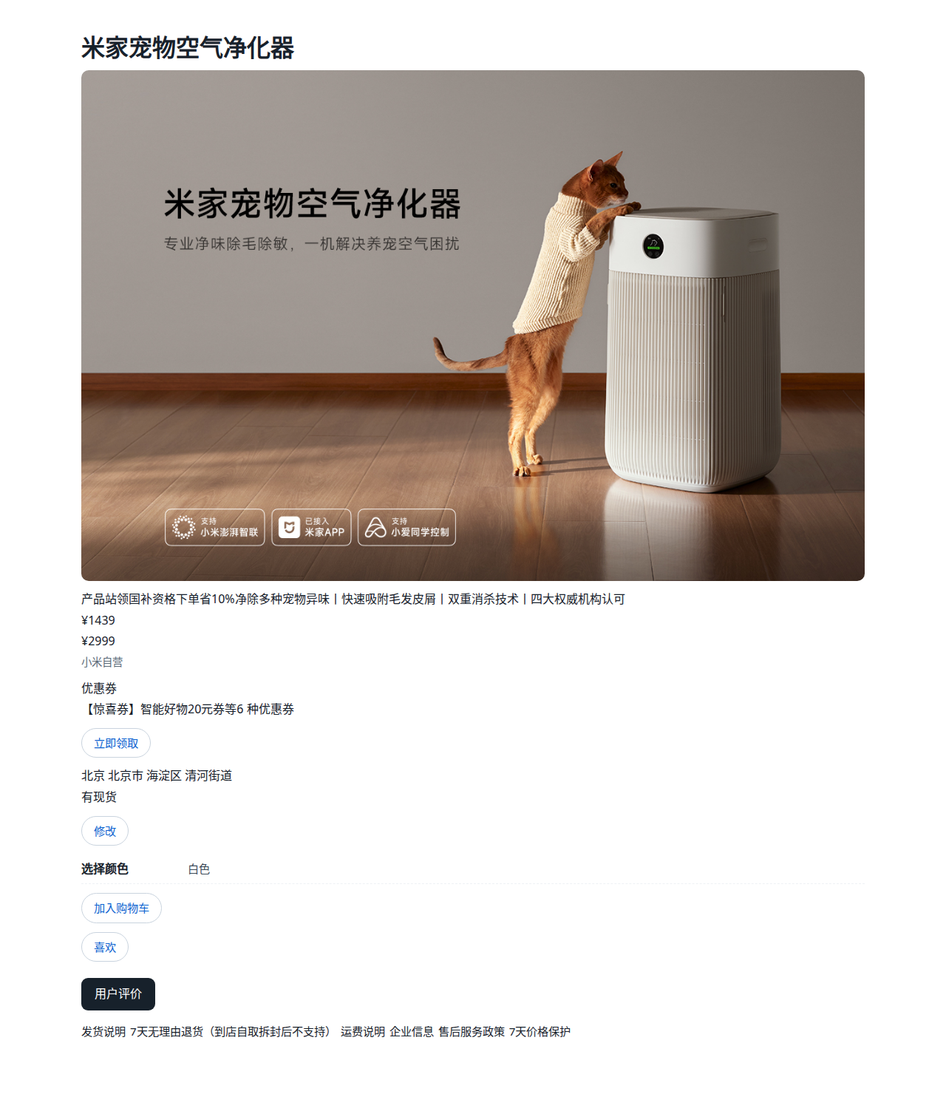
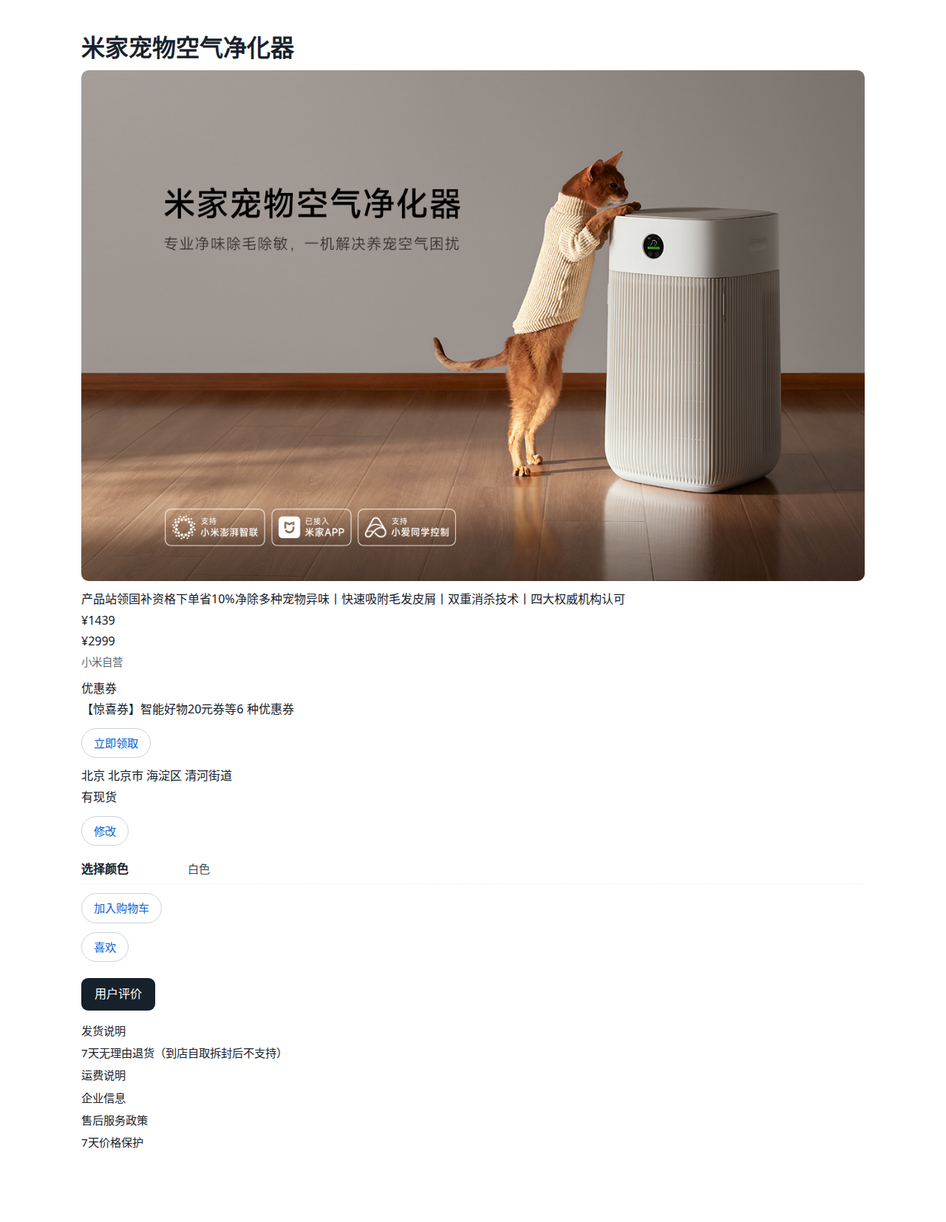
fix-9 accepted: degenerate comparison tables get a reason, three minors closed
Round 10's rule: a compare set that shares no attribute, or whose table would be
less than 40% filled, degrades to its normal form and reports a reason
(degenerate-no-shared-attribute / degenerate-fill-rate:<r>). The worker pushed
back on my brief and was right: my suggested 'fewer than two effective rows'
would have wrongly degraded the accepted Airbnb aspects table (one shared row,
fill 1.00), so the rule is sharedRows == 0 || fill < 0.4, documented with data in
layout-axes §3. Positional _items[i]/_lines[i] keys no longer become rows, and
entity nested collections render in their own column instead of index-pairing.
Minors: 36kr H1 provenance note, aliyun g9i honestly left blank (the source card
has no amount), mi15 assurances one per line.

PROCESS DEFECT (mine, disclosed): commit 162ef7e, labelled as the round-11
capture, swept this round's in-progress render.mjs/selftest/layout-axes edits
into history because I ran 'git add -A' while a writer was still active. Content
is correct, the label is not. From now on: never stage anything while an m1/
writer is running; commit explicit paths or wait for it to finish.

diff --git a/m1/curated/renders/index.html b/m1/curated/renders/index.html
@@ -1,36 +1,36 @@
-<!doctype html><meta charset=utf-8><title>AutoFE M3 curated gallery</title><style>body{font:14px/1.5 system-ui,"PingFang SC",sans-serif;margin:24px;background:#fafbfc;color:#17212b}h1{font-size:1.3em}.grid{display:grid;grid-template-columns:repeat(auto-fill,minmax(260px,1fr));gap:16px;margin-top:16px}.card{margin:0;background:#fff;border:1px solid #e6eaf0;border-radius:10px;overflow:hidden}.card img{width:100%;height:220px;object-fit:cover;object-position:top;display:block;background:#fff}.card figcaption{padding:8px 10px}.k{font-weight:600;font-size:.92em}.tier{float:right;font-size:.75em;color:#68788a;text-transform:uppercase}.m{color:#5b6a78;font-size:.82em;margin-top:3px}.missing{padding:40px;text-align:center;color:#98a4b2}</style><h1>AutoFE · M3 蓝图渲染画廊（36 页 · F-031 轴语义 · 版本 muodghun）</h1><p style="color:#5b6a78">每张缩略图点开看整页；下方为该页事实保真与源覆盖残余。原页截图见 corpus/&lt;site&gt;/&lt;page&gt;/full.png。</p><div class=grid><figure class="card"><a href="36kr-com-home.png?v=muodghun"><img src="36kr-com-home.png?v=muodghun" loading="lazy"></a><figcaption><span class="k">36kr-com/home</span><span class="tier">exemplar</span><div class="m">fidelity <b>1</b> (157/157) · coverage high 62 / med 0</div></figcaption></figure>
-<figure class="card"><a href="36kr-com-information-technology.png?v=muodghun"><img src="36kr-com-information-technology.png?v=muodghun" loading="lazy"></a><figcaption><span class="k">36kr-com/information-technology</span><span class="tier">exemplar</span><div class="m">fidelity <b>1</b> (115/115) · coverage high 33 / med 0</div></figcaption></figure>
-<figure class="card"><a href="36kr-com-search-ai.png?v=muodghun"><img src="36kr-com-search-ai.png?v=muodghun" loading="lazy"></a><figcaption><span class="k">36kr-com/search-ai</span><span class="tier">exemplar</span><div class="m">fidelity <b>1</b> (73/73) · coverage high 32 / med 0</div></figcaption></figure>
-<figure class="card"><a href="36kr-com-search-viz.png?v=muodghun"><img src="36kr-com-search-viz.png?v=muodghun" loading="lazy"></a><figcaption><span class="k">36kr-com/search-viz</span><span class="tier">exemplar</span><div class="m">fidelity <b>1</b> (73/73) · coverage high 33 / med 0</div></figcaption></figure>
-<figure class="card"><a href="airbnb-com-room-28871.png?v=muodghun"><img src="airbnb-com-room-28871.png?v=muodghun" loading="lazy"></a><figcaption><span class="k">airbnb-com/room-28871</span><span class="tier">exemplar</span><div class="m">fidelity <b>1</b> (75/75) · coverage high 30 / med 10</div></figcaption></figure>
-<figure class="card"><a href="aliyun-com-home.png?v=muodghun"><img src="aliyun-com-home.png?v=muodghun" loading="lazy"></a><figcaption><span class="k">aliyun-com/home</span><span class="tier">exemplar</span><div class="m">fidelity <b>1</b> (177/177) · coverage high 67 / med 104</div></figcaption></figure>
-<figure class="card"><a href="aliyun-com-product-ecs.png?v=muodghun"><img src="aliyun-com-product-ecs.png?v=muodghun" loading="lazy"></a><figcaption><span class="k">aliyun-com/product-ecs</span><span class="tier">exemplar</span><div class="m">fidelity <b>1</b> (38/38) · coverage high 76 / med 156</div></figcaption></figure>
-<figure class="card"><a href="apple-com-cn-iphone-17.png?v=muodghun"><img src="apple-com-cn-iphone-17.png?v=muodghun" loading="lazy"></a><figcaption><span class="k">apple-com-cn/iphone-17</span><span class="tier">exemplar</span><div class="m">fidelity <b>1</b> (172/172) · coverage high 99 / med 40</div></figcaption></figure>
-<figure class="card"><a href="apple-com-home.png?v=muodghun"><img src="apple-com-home.png?v=muodghun" loading="lazy"></a><figcaption><span class="k">apple-com/home</span><span class="tier">exemplar</span><div class="m">fidelity <b>1</b> (64/64) · coverage high 74 / med 42</div></figcaption></figure>
-<figure class="card"><a href="apple-com-ipad-air.png?v=muodghun"><img src="apple-com-ipad-air.png?v=muodghun" loading="lazy"></a><figcaption><span class="k">apple-com/ipad-air</span><span class="tier">exemplar</span><div class="m">fidelity <b>1</b> (114/114) · coverage high 57 / med 38</div></figcaption></figure>
-<figure class="card"><a href="apple-com-iphone-16.png?v=muodghun"><img src="apple-com-iphone-16.png?v=muodghun" loading="lazy"></a><figcaption><span class="k">apple-com/iphone-16</span><span class="tier">exemplar</span><div class="m">fidelity <b>1</b> (122/122) · coverage high 78 / med 41</div></figcaption></figure>
-<figure class="card"><a href="apple-com-macbook-air.png?v=muodghun"><img src="apple-com-macbook-air.png?v=muodghun" loading="lazy"></a><figcaption><span class="k">apple-com/macbook-air</span><span class="tier">exemplar</span><div class="m">fidelity <b>1</b> (166/166) · coverage high 63 / med 41</div></figcaption></figure>
-<figure class="card"><a href="bilibili-com-home.png?v=muodghun"><img src="bilibili-com-home.png?v=muodghun" loading="lazy"></a><figcaption><span class="k">bilibili-com/home</span><span class="tier">exemplar</span><div class="m">fidelity <b>1</b> (58/58) · coverage high 25 / med 0</div></figcaption></figure>
-<figure class="card"><a href="bilibili-com-read-home.png?v=muodghun"><img src="bilibili-com-read-home.png?v=muodghun" loading="lazy"></a><figcaption><span class="k">bilibili-com/read-home</span><span class="tier">exemplar</span><div class="m">fidelity <b>1</b> (105/105) · coverage high 4 / med 0</div></figcaption></figure>
-<figure class="card"><a href="bilibili-com-video-bv1gj411x7h7.png?v=muodghun"><img src="bilibili-com-video-bv1gj411x7h7.png?v=muodghun" loading="lazy"></a><figcaption><span class="k">bilibili-com/video-bv1gj411x7h7</span><span class="tier">exemplar</span><div class="m">fidelity <b>1</b> (154/154) · coverage high 17 / med 0</div></figcaption></figure>
-<figure class="card"><a href="gov-uk-register-birth-abroad.png?v=muodghun"><img src="gov-uk-register-birth-abroad.png?v=muodghun" loading="lazy"></a><figcaption><span class="k">gov-uk/register-birth-abroad</span><span class="tier">exemplar</span><div class="m">fidelity <b>1</b> (34/34) · coverage high 0 / med 5</div></figcaption></figure>
-<figure class="card"><a href="grafana-play-play-home.png?v=muodghun"><img src="grafana-play-play-home.png?v=muodghun" loading="lazy"></a><figcaption><span class="k">grafana-play/play-home</span><span class="tier">exemplar</span><div class="m">fidelity <b>1</b> (18/18) · coverage high 0 / med 0</div></figcaption></figure>
-<figure class="card"><a href="huawei-cn-consumer-phones.png?v=muodghun"><img src="huawei-cn-consumer-phones.png?v=muodghun" loading="lazy"></a><figcaption><span class="k">huawei-cn/consumer-phones</span><span class="tier">exemplar</span><div class="m">fidelity <b>1</b> (151/151) · coverage high 85 / med 0</div></figcaption></figure>
-<figure class="card"><a href="huawei-cn-home.png?v=muodghun"><img src="huawei-cn-home.png?v=muodghun" loading="lazy"></a><figcaption><span class="k">huawei-cn/home</span><span class="tier">exemplar</span><div class="m">fidelity <b>1</b> (29/29) · coverage high 8 / med 4</div></figcaption></figure>
-<figure class="card"><a href="huawei-cn-search-laptop.png?v=muodghun"><img src="huawei-cn-search-laptop.png?v=muodghun" loading="lazy"></a><figcaption><span class="k">huawei-cn/search-laptop</span><span class="tier">exemplar</span><div class="m">fidelity <b>1</b> (47/47) · coverage high 9 / med 3</div></figcaption></figure>
-<figure class="card"><a href="huawei-cn-search-phone.png?v=muodghun"><img src="huawei-cn-search-phone.png?v=muodghun" loading="lazy"></a><figcaption><span class="k">huawei-cn/search-phone</span><span class="tier">exemplar</span><div class="m">fidelity <b>1</b> (45/45) · coverage high 9 / med 3</div></figcaption></figure>
-<figure class="card"><a href="linear-app-home.png?v=muodghun"><img src="linear-app-home.png?v=muodghun" loading="lazy"></a><figcaption><span class="k">linear-app/home</span><span class="tier">exemplar</span><div class="m">fidelity <b>1</b> (22/22) · coverage high 145 / med 5</div></figcaption></figure>
-<figure class="card"><a href="mi-com-home.png?v=muodghun"><img src="mi-com-home.png?v=muodghun" loading="lazy"></a><figcaption><span class="k">mi-com/home</span><span class="tier">exemplar</span><div class="m">fidelity <b>1</b> (2/2) · coverage high 11 / med 0</div></figcaption></figure>
-<figure class="card"><a href="mi-com-product-detail-mi15.png?v=muodghun"><img src="mi-com-product-detail-mi15.png?v=muodghun" loading="lazy"></a><figcaption><span class="k">mi-com/product-detail-mi15</span><span class="tier">exemplar</span><div class="m">fidelity <b>1</b> (21/21) · coverage high 18 / med 2</div></figcaption></figure>
-<figure class="card"><a href="mi-com-search-earbuds.png?v=muodghun"><img src="mi-com-search-earbuds.png?v=muodghun" loading="lazy"></a><figcaption><span class="k">mi-com/search-earbuds</span><span class="tier">exemplar</span><div class="m">fidelity <b>1</b> (122/122) · coverage high 64 / med 0</div></figcaption></figure>
-<figure class="card"><a href="mi-com-search-phone.png?v=muodghun"><img src="mi-com-search-phone.png?v=muodghun" loading="lazy"></a><figcaption><span class="k">mi-com/search-phone</span><span class="tier">exemplar</span><div class="m">fidelity <b>1</b> (85/85) · coverage high 63 / med 0</div></figcaption></figure>
-<figure class="card"><a href="mi-com-shop-category-list.png?v=muodghun"><img src="mi-com-shop-category-list.png?v=muodghun" loading="lazy"></a><figcaption><span class="k">mi-com/shop-category-list</span><span class="tier">exemplar</span><div class="m">fidelity <b>1</b> (161/161) · coverage high 13 / med 9</div></figcaption></figure>
-<figure class="card"><a href="sspai-com-home.png?v=muodghun"><img src="sspai-com-home.png?v=muodghun" loading="lazy"></a><figcaption><span class="k">sspai-com/home</span><span class="tier">exemplar</span><div class="m">fidelity <b>1</b> (86/86) · coverage high 14 / med 0</div></figcaption></figure>
-<figure class="card"><a href="sspai-com-matrix.png?v=muodghun"><img src="sspai-com-matrix.png?v=muodghun" loading="lazy"></a><figcaption><span class="k">sspai-com/matrix</span><span class="tier">exemplar</span><div class="m">fidelity <b>1</b> (83/83) · coverage high 15 / med 0</div></figcaption></figure>
-<figure class="card"><a href="sspai-com-post-102392.png?v=muodghun"><img src="sspai-com-post-102392.png?v=muodghun" loading="lazy"></a><figcaption><span class="k">sspai-com/post-102392</span><span class="tier">exemplar</span><div class="m">fidelity <b>1</b> (18/18) · coverage high 9 / med 0</div></figcaption></figure>
-<figure class="card"><a href="sspai-com-post-114699.png?v=muodghun"><img src="sspai-com-post-114699.png?v=muodghun" loading="lazy"></a><figcaption><span class="k">sspai-com/post-114699</span><span class="tier">exemplar</span><div class="m">fidelity <b>1</b> (55/55) · coverage high 19 / med 0</div></figcaption></figure>
-<figure class="card"><a href="sspai-com-post-114716.png?v=muodghun"><img src="sspai-com-post-114716.png?v=muodghun" loading="lazy"></a><figcaption><span class="k">sspai-com/post-114716</span><span class="tier">exemplar</span><div class="m">fidelity <b>1</b> (126/126) · coverage high 28 / med 0</div></figcaption></figure>
-<figure class="card"><a href="sspai-com-u-jtc092al.png?v=muodghun"><img src="sspai-com-u-jtc092al.png?v=muodghun" loading="lazy"></a><figcaption><span class="k">sspai-com/u-jtc092al</span><span class="tier">exemplar</span><div class="m">fidelity <b>1</b> (38/38) · coverage high 3 / med 0</div></figcaption></figure>
-<figure class="card"><a href="stripe-com-pricing.png?v=muodghun"><img src="stripe-com-pricing.png?v=muodghun" loading="lazy"></a><figcaption><span class="k">stripe-com/pricing</span><span class="tier">exemplar</span><div class="m">fidelity <b>1</b> (425/425) · coverage high 91 / med 4</div></figcaption></figure>
-<figure class="card"><a href="stripe-docs-payments.png?v=muodghun"><img src="stripe-docs-payments.png?v=muodghun" loading="lazy"></a><figcaption><span class="k">stripe-docs/payments</span><span class="tier">exemplar</span><div class="m">fidelity <b>1</b> (62/62) · coverage high 0 / med 0</div></figcaption></figure>
-<figure class="card"><a href="taobao-com-home.png?v=muodghun"><img src="taobao-com-home.png?v=muodghun" loading="lazy"></a><figcaption><span class="k">taobao-com/home</span><span class="tier">exemplar</span><div class="m">fidelity <b>1</b> (136/136) · coverage high 13 / med 0</div></figcaption></figure></div>
+<!doctype html><meta charset=utf-8><title>AutoFE M3 curated gallery</title><style>body{font:14px/1.5 system-ui,"PingFang SC",sans-serif;margin:24px;background:#fafbfc;color:#17212b}h1{font-size:1.3em}.grid{display:grid;grid-template-columns:repeat(auto-fill,minmax(260px,1fr));gap:16px;margin-top:16px}.card{margin:0;background:#fff;border:1px solid #e6eaf0;border-radius:10px;overflow:hidden}.card img{width:100%;height:220px;object-fit:cover;object-position:top;display:block;background:#fff}.card figcaption{padding:8px 10px}.k{font-weight:600;font-size:.92em}.tier{float:right;font-size:.75em;color:#68788a;text-transform:uppercase}.m{color:#5b6a78;font-size:.82em;margin-top:3px}.missing{padding:40px;text-align:center;color:#98a4b2}</style><h1>AutoFE · M3 蓝图渲染画廊（36 页 · F-031 轴语义 · 版本 muodz0hp）</h1><p style="color:#5b6a78">每张缩略图点开看整页；下方为该页事实保真与源覆盖残余。原页截图见 corpus/&lt;site&gt;/&lt;page&gt;/full.png。</p><div class=grid><figure class="card"><a href="36kr-com-home.png?v=muodz0hp"><img src="36kr-com-home.png?v=muodz0hp" loading="lazy"></a><figcaption><span class="k">36kr-com/home</span><span class="tier">exemplar</span><div class="m">fidelity <b>1</b> (157/157) · coverage high 62 / med 0</div></figcaption></figure>
+<figure class="card"><a href="36kr-com-information-technology.png?v=muodz0hp"><img src="36kr-com-information-technology.png?v=muodz0hp" loading="lazy"></a><figcaption><span class="k">36kr-com/information-technology</span><span class="tier">exemplar</span><div class="m">fidelity <b>1</b> (115/115) · coverage high 33 / med 0</div></figcaption></figure>
+<figure class="card"><a href="36kr-com-search-ai.png?v=muodz0hp"><img src="36kr-com-search-ai.png?v=muodz0hp" loading="lazy"></a><figcaption><span class="k">36kr-com/search-ai</span><span class="tier">exemplar</span><div class="m">fidelity <b>1</b> (73/73) · coverage high 32 / med 0</div></figcaption></figure>
+<figure class="card"><a href="36kr-com-search-viz.png?v=muodz0hp"><img src="36kr-com-search-viz.png?v=muodz0hp" loading="lazy"></a><figcaption><span class="k">36kr-com/search-viz</span><span class="tier">exemplar</span><div class="m">fidelity <b>1</b> (73/73) · coverage high 33 / med 0</div></figcaption></figure>
+<figure class="card"><a href="airbnb-com-room-28871.png?v=muodz0hp"><img src="airbnb-com-room-28871.png?v=muodz0hp" loading="lazy"></a><figcaption><span class="k">airbnb-com/room-28871</span><span class="tier">exemplar</span><div class="m">fidelity <b>1</b> (75/75) · coverage high 30 / med 10</div></figcaption></figure>
+<figure class="card"><a href="aliyun-com-home.png?v=muodz0hp"><img src="aliyun-com-home.png?v=muodz0hp" loading="lazy"></a><figcaption><span class="k">aliyun-com/home</span><span class="tier">exemplar</span><div class="m">fidelity <b>1</b> (177/177) · coverage high 67 / med 104</div></figcaption></figure>
+<figure class="card"><a href="aliyun-com-product-ecs.png?v=muodz0hp"><img src="aliyun-com-product-ecs.png?v=muodz0hp" loading="lazy"></a><figcaption><span class="k">aliyun-com/product-ecs</span><span class="tier">exemplar</span><div class="m">fidelity <b>1</b> (38/38) · coverage high 76 / med 156</div></figcaption></figure>
+<figure class="card"><a href="apple-com-cn-iphone-17.png?v=muodz0hp"><img src="apple-com-cn-iphone-17.png?v=muodz0hp" loading="lazy"></a><figcaption><span class="k">apple-com-cn/iphone-17</span><span class="tier">exemplar</span><div class="m">fidelity <b>1</b> (172/172) · coverage high 99 / med 40</div></figcaption></figure>
+<figure class="card"><a href="apple-com-home.png?v=muodz0hp"><img src="apple-com-home.png?v=muodz0hp" loading="lazy"></a><figcaption><span class="k">apple-com/home</span><span class="tier">exemplar</span><div class="m">fidelity <b>1</b> (64/64) · coverage high 74 / med 42</div></figcaption></figure>
+<figure class="card"><a href="apple-com-ipad-air.png?v=muodz0hp"><img src="apple-com-ipad-air.png?v=muodz0hp" loading="lazy"></a><figcaption><span class="k">apple-com/ipad-air</span><span class="tier">exemplar</span><div class="m">fidelity <b>1</b> (114/114) · coverage high 57 / med 38</div></figcaption></figure>
+<figure class="card"><a href="apple-com-iphone-16.png?v=muodz0hp"><img src="apple-com-iphone-16.png?v=muodz0hp" loading="lazy"></a><figcaption><span class="k">apple-com/iphone-16</span><span class="tier">exemplar</span><div class="m">fidelity <b>1</b> (122/122) · coverage high 78 / med 41</div></figcaption></figure>
+<figure class="card"><a href="apple-com-macbook-air.png?v=muodz0hp"><img src="apple-com-macbook-air.png?v=muodz0hp" loading="lazy"></a><figcaption><span class="k">apple-com/macbook-air</span><span class="tier">exemplar</span><div class="m">fidelity <b>1</b> (166/166) · coverage high 63 / med 41</div></figcaption></figure>
+<figure class="card"><a href="bilibili-com-home.png?v=muodz0hp"><img src="bilibili-com-home.png?v=muodz0hp" loading="lazy"></a><figcaption><span class="k">bilibili-com/home</span><span class="tier">exemplar</span><div class="m">fidelity <b>1</b> (58/58) · coverage high 25 / med 0</div></figcaption></figure>
+<figure class="card"><a href="bilibili-com-read-home.png?v=muodz0hp"><img src="bilibili-com-read-home.png?v=muodz0hp" loading="lazy"></a><figcaption><span class="k">bilibili-com/read-home</span><span class="tier">exemplar</span><div class="m">fidelity <b>1</b> (105/105) · coverage high 4 / med 0</div></figcaption></figure>
+<figure class="card"><a href="bilibili-com-video-bv1gj411x7h7.png?v=muodz0hp"><img src="bilibili-com-video-bv1gj411x7h7.png?v=muodz0hp" loading="lazy"></a><figcaption><span class="k">bilibili-com/video-bv1gj411x7h7</span><span class="tier">exemplar</span><div class="m">fidelity <b>1</b> (154/154) · coverage high 17 / med 0</div></figcaption></figure>
+<figure class="card"><a href="gov-uk-register-birth-abroad.png?v=muodz0hp"><img src="gov-uk-register-birth-abroad.png?v=muodz0hp" loading="lazy"></a><figcaption><span class="k">gov-uk/register-birth-abroad</span><span class="tier">exemplar</span><div class="m">fidelity <b>1</b> (34/34) · coverage high 0 / med 5</div></figcaption></figure>
+<figure class="card"><a href="grafana-play-play-home.png?v=muodz0hp"><img src="grafana-play-play-home.png?v=muodz0hp" loading="lazy"></a><figcaption><span class="k">grafana-play/play-home</span><span class="tier">exemplar</span><div class="m">fidelity <b>1</b> (18/18) · coverage high 0 / med 0</div></figcaption></figure>
+<figure class="card"><a href="huawei-cn-consumer-phones.png?v=muodz0hp"><img src="huawei-cn-consumer-phones.png?v=muodz0hp" loading="lazy"></a><figcaption><span class="k">huawei-cn/consumer-phones</span><span class="tier">exemplar</span><div class="m">fidelity <b>1</b> (151/151) · coverage high 85 / med 0</div></figcaption></figure>
+<figure class="card"><a href="huawei-cn-home.png?v=muodz0hp"><img src="huawei-cn-home.png?v=muodz0hp" loading="lazy"></a><figcaption><span class="k">huawei-cn/home</span><span class="tier">exemplar</span><div class="m">fidelity <b>1</b> (29/29) · coverage high 8 / med 4</div></figcaption></figure>
+<figure class="card"><a href="huawei-cn-search-laptop.png?v=muodz0hp"><img src="huawei-cn-search-laptop.png?v=muodz0hp" loading="lazy"></a><figcaption><span class="k">huawei-cn/search-laptop</span><span class="tier">exemplar</span><div class="m">fidelity <b>1</b> (47/47) · coverage high 9 / med 3</div></figcaption></figure>
+<figure class="card"><a href="huawei-cn-search-phone.png?v=muodz0hp"><img src="huawei-cn-search-phone.png?v=muodz0hp" loading="lazy"></a><figcaption><span class="k">huawei-cn/search-phone</span><span class="tier">exemplar</span><div class="m">fidelity <b>1</b> (45/45) · coverage high 9 / med 3</div></figcaption></figure>
+<figure class="card"><a href="linear-app-home.png?v=muodz0hp"><img src="linear-app-home.png?v=muodz0hp" loading="lazy"></a><figcaption><span class="k">linear-app/home</span><span class="tier">exemplar</span><div class="m">fidelity <b>1</b> (22/22) · coverage high 145 / med 5</div></figcaption></figure>
+<figure class="card"><a href="mi-com-home.png?v=muodz0hp"><img src="mi-com-home.png?v=muodz0hp" loading="lazy"></a><figcaption><span class="k">mi-com/home</span><span class="tier">exemplar</span><div class="m">fidelity <b>1</b> (2/2) · coverage high 11 / med 0</div></figcaption></figure>
+<figure class="card"><a href="mi-com-product-detail-mi15.png?v=muodz0hp"><img src="mi-com-product-detail-mi15.png?v=muodz0hp" loading="lazy"></a><figcaption><span class="k">mi-com/product-detail-mi15</span><span class="tier">exemplar</span><div class="m">fidelity <b>1</b> (21/21) · coverage high 18 / med 2</div></figcaption></figure>
+<figure class="card"><a href="mi-com-search-earbuds.png?v=muodz0hp"><img src="mi-com-search-earbuds.png?v=muodz0hp" loading="lazy"></a><figcaption><span class="k">mi-com/search-earbuds</span><span class="tier">exemplar</span><div class="m">fidelity <b>1</b> (122/122) · coverage high 64 / med 0</div></figcaption></figure>
+<figure class="card"><a href="mi-com-search-phone.png?v=muodz0hp"><img src="mi-com-search-phone.png?v=muodz0hp" loading="lazy"></a><figcaption><span class="k">mi-com/search-phone</span><span class="tier">exemplar</span><div class="m">fidelity <b>1</b> (85/85) · coverage high 63 / med 0</div></figcaption></figure>
+<figure class="card"><a href="mi-com-shop-category-list.png?v=muodz0hp"><img src="mi-com-shop-category-list.png?v=muodz0hp" loading="lazy"></a><figcaption><span class="k">mi-com/shop-category-list</span><span class="tier">exemplar</span><div class="m">fidelity <b>1</b> (161/161) · coverage high 13 / med 9</div></figcaption></figure>
+<figure class="card"><a href="sspai-com-home.png?v=muodz0hp"><img src="sspai-com-home.png?v=muodz0hp" loading="lazy"></a><figcaption><span class="k">sspai-com/home</span><span class="tier">exemplar</span><div class="m">fidelity <b>1</b> (86/86) · coverage high 14 / med 0</div></figcaption></figure>
+<figure class="card"><a href="sspai-com-matrix.png?v=muodz0hp"><img src="sspai-com-matrix.png?v=muodz0hp" loading="lazy"></a><figcaption><span class="k">sspai-com/matrix</span><span class="tier">exemplar</span><div class="m">fidelity <b>1</b> (83/83) · coverage high 15 / med 0</div></figcaption></figure>
+<figure class="card"><a href="sspai-com-post-102392.png?v=muodz0hp"><img src="sspai-com-post-102392.png?v=muodz0hp" loading="lazy"></a><figcaption><span class="k">sspai-com/post-102392</span><span class="tier">exemplar</span><div class="m">fidelity <b>1</b> (18/18) · coverage high 9 / med 0</div></figcaption></figure>
+<figure class="card"><a href="sspai-com-post-114699.png?v=muodz0hp"><img src="sspai-com-post-114699.png?v=muodz0hp" loading="lazy"></a><figcaption><span class="k">sspai-com/post-114699</span><span class="tier">exemplar</span><div class="m">fidelity <b>1</b> (55/55) · coverage high 19 / med 0</div></figcaption></figure>
+<figure class="card"><a href="sspai-com-post-114716.png?v=muodz0hp"><img src="sspai-com-post-114716.png?v=muodz0hp" loading="lazy"></a><figcaption><span class="k">sspai-com/post-114716</span><span class="tier">exemplar</span><div class="m">fidelity <b>1</b> (126/126) · coverage high 28 / med 0</div></figcaption></figure>
+<figure class="card"><a href="sspai-com-u-jtc092al.png?v=muodz0hp"><img src="sspai-com-u-jtc092al.png?v=muodz0hp" loading="lazy"></a><figcaption><span class="k">sspai-com/u-jtc092al</span><span class="tier">exemplar</span><div class="m">fidelity <b>1</b> (38/38) · coverage high 3 / med 0</div></figcaption></figure>
+<figure class="card"><a href="stripe-com-pricing.png?v=muodz0hp"><img src="stripe-com-pricing.png?v=muodz0hp" loading="lazy"></a><figcaption><span class="k">stripe-com/pricing</span><span class="tier">exemplar</span><div class="m">fidelity <b>1</b> (425/425) · coverage high 91 / med 4</div></figcaption></figure>
+<figure class="card"><a href="stripe-docs-payments.png?v=muodz0hp"><img src="stripe-docs-payments.png?v=muodz0hp" loading="lazy"></a><figcaption><span class="k">stripe-docs/payments</span><span class="tier">exemplar</span><div class="m">fidelity <b>1</b> (62/62) · coverage high 0 / med 0</div></figcaption></figure>
+<figure class="card"><a href="taobao-com-home.png?v=muodz0hp"><img src="taobao-com-home.png?v=muodz0hp" loading="lazy"></a><figcaption><span class="k">taobao-com/home</span><span class="tier">exemplar</span><div class="m">fidelity <b>1</b> (136/136) · coverage high 13 / med 0</div></figcaption></figure></div>

diff --git a/m1/curated/renders/mi-com-product-detail-mi15.html b/m1/curated/renders/mi-com-product-detail-mi15.html
@@ -96,4 +96,4 @@ table.data td.sel,table.data th.sel{width:34px;text-align:center}
 .row-ops{display:flex;flex-direction:column;gap:4px}
 .row-ops .action{margin:2px 0;padding:4px 10px;font-size:.85em}
 </style></head>
-<body><main><article id="mi-pet-air-purifier" class="node depth-0"><h1 class="title">米家宠物空气净化器</h1><figure class="strip"><img src="../assets/mi15-product-hero.png" alt="米家宠物空气净化器 产品主图（自原页截图恢复）"></figure><section class="group g-product"><article class="node depth-1"><div class="fact"><span class="val">产品站领国补资格下单省10%净除多种宠物异味丨快速吸附毛发皮屑丨双重消杀技术丨四大权威机构认可</span></div><div class="fact"><span class="val">¥1439</span></div><div class="fact"><span class="val">¥2999</span></div><div class="meta">小米自营</div></article></section><section class="group g-coupons"><article class="node depth-1"><div class="fact"><span class="val">优惠券</span></div><div class="fact"><span class="val">【惊喜券】智能好物20元券等6 种优惠券</span></div><section class="group g-claim"><div class="controls"><span class="ctl">立即领取</span></div></section></article></section><section class="group g-delivery"><article class="node depth-1"><div class="fact"><span class="val">北京 北京市 海淀区 清河街道</span></div><div class="fact"><span class="val">有现货</span></div><section class="group g-modify"><div class="controls"><span class="ctl">修改</span></div></section></article></section><section class="group g-options"><article class="node depth-1"><div class="defrow"><div class="deflabel">选择颜色</div><div class="defval">白色 </div></div></article></section><section class="group g-buy"><article class="node depth-1"><section class="group g-cart"><div class="controls"><span class="ctl">加入购物车</span></div></section><section class="group g-like"><div class="controls"><span class="ctl">喜欢</span></div></section></article></section><section class="group g-reviews"><article class="node depth-1"><a class="action verb-open" href="https://www.mi.com/shop/comment/21096.html">用户评价</a></article></section><section class="group g-assurances"><article class="node depth-1"><div class="chips"><span class="chip-item">发货说明</span><span class="chip-item">7天无理由退货（到店自取拆封后不支持）</span><span class="chip-item">运费说明</span><span class="chip-item">企业信息</span><span class="chip-item"><a href="https://m.mi.com/aftersale/policy/7">售后服务政策</a></span><span class="chip-item"><a href="https://s1.mi.com/m/faq/giving/index.html?project_id=44">7天价格保护</a></span></div></article></section></article></main></body></html>
+<body><main><article id="mi-pet-air-purifier" class="node depth-0"><h1 class="title">米家宠物空气净化器</h1><figure class="strip"><img src="../assets/mi15-product-hero.png" alt="米家宠物空气净化器 产品主图（自原页截图恢复）"></figure><section class="group g-product"><article class="node depth-1"><div class="fact"><span class="val">产品站领国补资格下单省10%净除多种宠物异味丨快速吸附毛发皮屑丨双重消杀技术丨四大权威机构认可</span></div><div class="fact"><span class="val">¥1439</span></div><div class="fact"><span class="val">¥2999</span></div><div class="meta">小米自营</div></article></section><section class="group g-coupons"><article class="node depth-1"><div class="fact"><span class="val">优惠券</span></div><div class="fact"><span class="val">【惊喜券】智能好物20元券等6 种优惠券</span></div><section class="group g-claim"><div class="controls"><span class="ctl">立即领取</span></div></section></article></section><section class="group g-delivery"><article class="node depth-1"><div class="fact"><span class="val">北京 北京市 海淀区 清河街道</span></div><div class="fact"><span class="val">有现货</span></div><section class="group g-modify"><div class="controls"><span class="ctl">修改</span></div></section></article></section><section class="group g-options"><article class="node depth-1"><div class="defrow"><div class="deflabel">选择颜色</div><div class="defval">白色 </div></div></article></section><section class="group g-buy"><article class="node depth-1"><section class="group g-cart"><div class="controls"><span class="ctl">加入购物车</span></div></section><section class="group g-like"><div class="controls"><span class="ctl">喜欢</span></div></section></article></section><section class="group g-reviews"><article class="node depth-1"><a class="action verb-open" href="https://www.mi.com/shop/comment/21096.html">用户评价</a></article></section><section class="group g-assurances"><article class="node depth-1"><div class="chips chips-rows"><span class="chip-item">发货说明</span><span class="chip-item">7天无理由退货（到店自取拆封后不支持）</span><span class="chip-item">运费说明</span><span class="chip-item">企业信息</span><span class="chip-item"><a href="https://m.mi.com/aftersale/policy/7">售后服务政策</a></span><span class="chip-item"><a href="https://s1.mi.com/m/faq/giving/index.html?project_id=44">7天价格保护</a></span></div></article></section></article></main></body></html>

diff --git a/.scratch/06-visual-review/fix-report-9.md b/.scratch/06-visual-review/fix-report-9.md
@@ -49,3 +49,69 @@ ok   D2 every curated compare marker is a table or an explicit degradation
 地基自测: 全部通过
 ```
 （同时修了 D2 清单核对器对**无 `_key` 集合**的匹配：原先 `d.key === c._key` 对无键集合恒假，过去因这些集合都成了表而侥幸通过。）
+
+## 片 2 · 三条 minor
+
+### minor(a) 36kr `information-technology` H1 来源说明 — **已补**
+先核实抓取：`corpus/36kr-com/information-technology/dom.html` **无 `<h1>`**（`<h1` 计数 0），「科技频道」只出现在 `<title>`（`科技频道_前沿科技_人工智能_黑科技_智能社会_智慧城市_36氪`）与 meta description，`nodes.json` **0 命中**。按 home/search-ai/search-viz 同一写法补进 `_intent`：
+> 页面 H1 来源：抓取中无可见标题（dom.html 无 <h1>，「科技频道」只出现在 <title> 与 meta description，nodes.json 0 命中），故 `_title` 取文档 `<title>` 的首段「科技频道」（父代理裁定·轮 6）。
+
+（模型中 `_title` 本就是人读的「科技频道」，非 SEO 串接串；本条只补溯源，不改可见文本。）
+
+### minor(c) aliyun `g9i` 列缺价格 — **去 corpus 核实：源站确无价格 ⇒ 保留空缺 + 说明**
+`corpus/aliyun-com/product-ecs/dom.html` / `nodes.json` 中 g9i 卡文本为
+`g9i实例 (中大型企业首选) 实例 : 2核8G 购买时长 : 1年 数量 : 1 立即购买` —— **止于「立即购买」，无 ￥/¥ 金额**；同一 block 里 e/u2a/c9i 卡都有金额（￥99 / ￥1438.68 / ￥3459.90）。故**不补价格**（诚实优先）：
+- 给 `_items[3]`（g9i）加 `_intent` 说明「源站该卡未给出价格…`_price` 空缺——不编造价格」；
+- 集合 `instances._intent` 补一句「g9i 列的价格空缺非漏采：源站该卡无金额」。
+
+### 顺手 mi15 `assurances` chip 连排 — **已改（引擎侧，最小半径）**
+见片 3。
+
+`node m1/validate.mjs` 两模型：`ok`。
+
+## 片 3 · 顺手 mi15 `assurances` chip 连排 — **已改（引擎侧，最小半径）**
+
+先量化爆炸半径：写 `/tmp/chipscan.mjs` 复算全库「chip 形态」集合。改前 `renderChips` 的换行判据只看 `[，。；、]`，而 mi15 的超长项用**全角括号**旁注「7天无理由退货（到店自取拆封后不支持）」，故不触发。
+全库扫描「chip 集合中含全角括号标签」= **仅 mi15 一处**（airbnb 星级分布、bilibili 弹幕样本本就含 `，` 已走 `chips-rows`）。故把判据扩为 `[，。；、（）：]`（含句读/旁注的标签不是 chip 尺寸），爆炸半径 1 页。
+
+`node m1/render.mjs m1/curated/mi-com/product-detail-mi15.json` → `.chips.chips-rows`，6 条各占一行。`--shots` 后裁图确认（见片 4 抽图）：6 条保障/政策各自一行，连排消失。其余 35 页未受影响（几何 `--shots` 后仍 36/36 干净、保真 36/36）。
+
+## 片 4 · 抽图所见（`--shots` 后，read 实图）
+
+- **stripe-com/pricing**（`/tmp/fix9/stripe-plans-top.png`）：退化后 plans 段由"空壳两列表"变为**两个各自成立的区块**——`标准定价`（概述 / `3.4% + HK$2.35` / 「每笔成功的国内银行卡交易」 / 香港说明 / 「立即开始」）、`定制化定价`（概述 / 四个定价方式短标签 / 「联系销售」）。信息完整、可读，**明显优于**原先行标题与值列同字、两列各说各话的空壳表。
+- **apple-com-cn/iphone-17**（`/tmp/fix9/iphone-which.png`）：表仍成立（行=显示屏/芯片/摄像头/电池/Apple 智能/购买，列=iPhone 17（当前浏览）/iPhone Air），**机身颜色移到各自列头**（左：薰衣草紫/鼠尾草绿/青雾蓝/白/黑；右：蓝/金/白/黑），**不再按下标配对**。行标签实测 = 显示屏/芯片/摄像头/电池/Apple 智能/购买（无颜色）。
+- **aliyun-com/product-ecs**（`/tmp/fix9/aliyun-instances.png`）：对比表成立（行=CPU/内存，列=四实例）；g9i 列**仅缺价格行**（其余三列有 ¥99/¥1238/¥1385），与源站一致——诚实空缺，非渲染缺陷。
+- **mi-com/product-detail-mi15**（`/tmp/fix9/mi15-assurances2.png`）：`用户评价` 入口下 6 条保障/政策**逐行**排列，连排消失。
+
+## 片 5 · 门禁原文（`node m1/eval/pipeline.mjs --shots`，自跑）
+
+```
+[pipeline] 渲染 36/36 | 错误 0
+[pipeline] 保真 1.00: 36/36
+[pipeline] 模型校验: 42 个全通过
+[pipeline] 校验器自测: 通过
+[pipeline] 地基自测(D1/D2/D3): 通过
+[pipeline] 显式降级清单（compare 标记但成不了对比表）:
+[pipeline] · stripe-com/pricing · n=2 · degenerate-no-shared-attribute
+[pipeline] 地基自测: 全部通过
+dup-title: 华为磁吸手机支架 - 华为官网
+· sspai-com-home.html                           dup-source-true(info):2
+
+视觉自查: 36/36 干净
+[pipeline] 截图 36 张, 画廊 v=muodz0hp
+```
+
+**降级清单前后对比**
+- 改前（verification-3 第 6 轮）：`显式降级清单（compare 标记但成不了对比表）: （无）`
+- 改后：`· stripe-com/pricing · n=2 · degenerate-no-shared-attribute`（与 D2 的 `no-comparable-attribute` 并列；理由带 `n` 与判据名）
+
+`node m1/eval/validate-selftest.mjs` → **12/12 通过**；`foundation-selftest.mjs` → 全部通过（含新增 D2b 四条）。纪律核对：渲染产物 `_intent` 命中 0 文件、`<script` 0 文件、`>buy</operate/navigate/open<` 0、`href="key:` 0。
+
+## 片 6 · 未修与理由 / 协调注意
+
+- **未修**：无（3 条 minor 全部处置；退化规则已落地并带看图确认）。
+- **口径偏离（已在设计中论证，非擅自改产品）**：任务建议「有效行数 < 2 ⇒ 退化」；实测 `airbnb reviews.aspects` 是**只有 1 条共享行、填充率 1.00、被第 6 轮验收接受**的合法最小对比表，按 `< 2` 会误伤。最终判据取「**共享行 == 0 ⇒ 空壳**」或「**填充率 < 0.4**」，并把 `_items[i]` 位置键从行键中剔除（颜色移到列内）。论据与阈值均写入 `docs/m1/layout-axes.md §3.1/§3.2`，并有 D2b 构造断言钉死。
+- **协调注意（非我提交）**：会话期间有并发编排提交把本轮的 `m1/render.mjs` 退化规则与两个模型 `_intent` 一并纳入历史（`git log -1 -- m1/render.mjs` = `162ef7e`）。因此当前 `git diff HEAD` 只剩我**后加**的 chips 括号判据（`m1/render.mjs` 2 行）+ 重生成产物。我本人**未**执行 `git commit`；`git diff --cached` 为空。不属于我的改动：并发 worker 的 `corpus/**`（只增页面）、`.scratch/09-new-exemplar-curation/**`。
+- **未触碰**：`corpus/`（0 改动）、`tools/capture/`。
+
+FIX9_DONE degenerate_rule=done minors=3/3 fidelity=36/36 audit=clean
